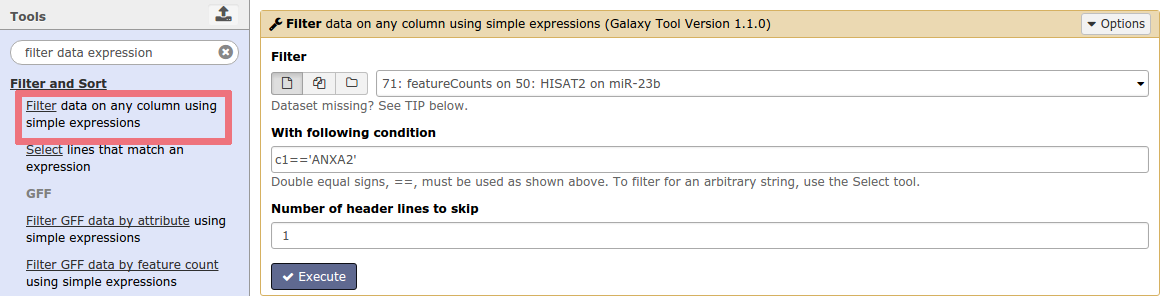
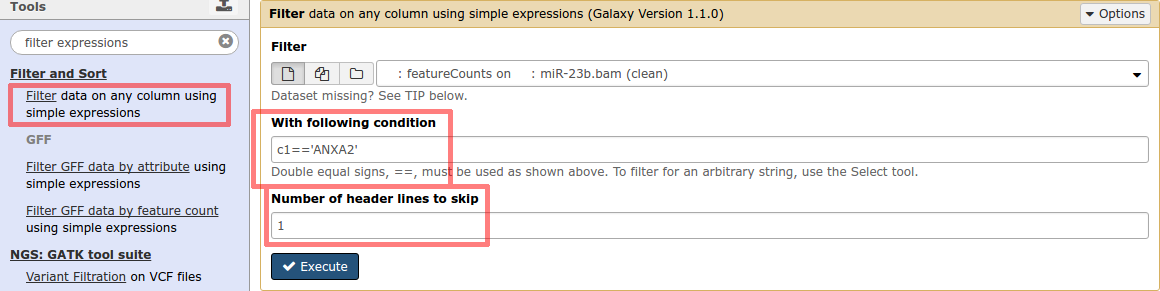
More fixes and changes

Changed region(s): [[0.0, 0.0, 1.0, 0.9897]]

diff --git a/Galaxy_RNA-Seq_DGE/Galaxy_RNA-Seq_DGE_manual_Module_advanced.tex b/Galaxy_RNA-Seq_DGE/Galaxy_RNA-Seq_DGE_manual_Module_advanced.tex
@@ -1,18 +1,24 @@
 \section{Expression analysis advanced}
 \subsection{Estimating gene expression}
-For this practical we need a RNA-seq alignments we previously made in the basic expression analysis: ``\textit{HISAT2 on miR-23b.bam}''. If you did not do that practical, you can find it in the supplementary material: \\
-\datalibrarydirrnaseqadvanced $\rightarrow$ HISAT2\\
-Ensure that the file is annotated at reference genome hg19. To estimate expression in RNA-Seq, we can simply count the number of reads that are aligned to each gene from the list of candidate genes. Therefore you also need to import:
-\datalibrarydirrnaseqtuxedo $\rightarrow$ ucsc\_refseq.gtf\\
-This list is provided as a GTF/GFF file. There are a variety of tools available for counting reads. FeatureCounts is one of the fastest and it works directly using BAM files. If you search for
-``\textit{\underline{featureCounts} Measure gene expression in RNA-Seq experiments from SAM or BAM files.}'' in the Tools menu, you can find the wrapper by the name:\\
+For this practical we need a RNA-seq alignments we previously made in the basic expression analysis: ``\textit{... miR-23b.bam}''. If you did not do that practical, you can find it in the supplementary material: \\
+\datalibrarydirrnaseqadvanced $\rightarrow$ \textit{miR-23b.bam (clean)}\\
+Ensure that the file is annotated at reference genome hg19. To estimate expression in RNA-Seq, we can count the number of reads that are aligned to each gene from the list of candidate genes. Therefore you also need to import:\\
+\datalibrarydirrnaseqadvanced $\rightarrow$ ucsc\_refseq.gtf\\
+This list is provided as a GTF/GFF file.
+There are a variety of tools available for counting reads.
+FeatureCounts is one of the faster tools and it works directly using BAM files. If you search for:\\
+``\textit{\underline{featureCounts} Measure gene expression in RNA-Seq experiments from SAM or BAM files.}''\\
+in the Tools menu, you can find the wrapper by the name:\\
 \includegraphics[width=\textwidth]{figures/expression_01.png}\\
 Before we proceed, we would like to know whether the analysis has been performed correctly. Therefore we take a look at featureCounts’ output-summary file ``\textit{featureCounts on \ldots}'':
 \begin{itemize}
 	\item How many reads are \textit{Assigned}?
 	\item How many reads are \textit{UnAssigned (sum of all)}?
 \end{itemize}
-The flagstat exercise told us we had 18258 reads in total. This should match with the total number of reads in the summary file as well. If we want to look at a particular gene, we truncate the large table and only show the row with the gene of interest. To filter a tabular file we proceed with the following Galaxy tool: 
+Flagstat told us the alignment has 18258 or 19493 reads in total (different versions).
+Please confirm whether this matches with the total number of reads in the featureCounts summary file.
+If we want to look at a particular gene, we may truncate the large table and only show the row with the gene of interest.
+To filter a tabular file we proceed with the following Galaxy tool: 
 \textit{\underline{Filter} data on any column using simple expressions}:\\
 \includegraphics[width=\textwidth]{figures/expression_02.png}\\
 \begin{itemize}
@@ -21,14 +27,16 @@ The flagstat exercise told us we had 18258 reads in total. This should match wit
 \end{itemize}
 
 \subsection{Expression analysis: Low sequencing depth}
-In the previous exercise we found which gene had the highest readcount, but what does it mean if this gene has a high read count in every sample? To say something about expression levels, we should say it in a context relative to other expression levels. Therefore, we need normalization and apply statistical testing. A popular package that allows to do this is EdgeR.
+In the previous exercise we found which gene had the highest readcount, but what does it mean if this gene has a high read count in every sample? To say something about expression levels, we should say it in a context relative to other expression levels. Therefore, we need normalization and apply statistical testing. A popular package that allows to do this is EdgeR which in galaxy fits perfectly with featureCounts.
 
-In the following analyses you will determine the differentially expressed genes in the MCF7-cell line between samples that have been treated with the hormone $\beta$-estradiol (E2) and those that were left as control. For this analysis we will make use of samples all taken from this cell line. In the corresponding article, the statistical power has been estimated at different sequencing depths (subsampling) and with a different number of replicates. Before we proceed, please read the abstract of the following article:
+In the following analyses you will determine the differentially expressed genes in the MCF7-cell line between samples that have been treated with the hormone $\beta$-estradiol (E2) and those that were left as control. The data was originally used to benchmark the statistical power of replicates and does not reflect a certain disease state. However, it is a classical 2-class approach and a similar setup can be useful for cancer analysis. Before we proceed, please read the abstract of the following article:
 \url{http://dx.doi.org/10.1093/bioinformatics/btt688}\\
 Tip: Look up where MCF7 cell lines originate from if you don't know this.\\
 \\
-In the article it is stated that for differential gene expression analysis it is very important to have a high number of replicates per condition. We will repeat a part of their experiment, to illustrate their findings. For this practical we have the readcounts for a sequencing depth of $\sim$30M (full), 10M and 5M, for each replicate, already made available. Each analysis in this assignment
-will be to determine the number of differentially expressed (DE) genes and add this number to Table \ref{tab:dge_ad_01}:
+For this analysis we will make use of samples all taken from this cell line.
+In the article it is stated that for differential gene expression analysis it is very important to have a high number of replicates per condition.
+We will repeat a part of their experiment, to illustrate their findings. For this practical we have the readcounts for a sequencing depth of $\sim$30M (full), 10M and 5M, for each replicate, already made available.
+Each analysis in this assignment will be to determine the number of differentially expressed (DE) genes and add this number to Table \ref{tab:dge_ad_01}:
 \begin{table}[]
 \centering
 \caption{results of DGE analysis}
@@ -58,10 +66,9 @@ Please take a look at the file GSE51403\_design\_matrix\_subsampled.txt.
 	\item Given that the first column lists the names of the samples and the second column the samples' corresponding condition, how many conditions does the experiment have?
 \end{itemize}
 \subsubsection{Subsampled datasets: 5M, 7+7}
-We have a two classes problem: the class itreated with estradiol is called “ E2”, and the
-other called “Control”. The design matrix provides the mapping from the RNAseq
-counts per sample to the phenotype class each is associated with. Take a look at the
-design matrix and see if you can find samples that belong to those classes.
+We have a two classes problem: the class itreated with estradiol is called ``E2'', and the other called ``Control''.
+The design matrix provides the mapping from the RNAseq counts per sample to the phenotype class each is associated with.
+Take a look at the design matrix and see if you can find samples that belong to two mentioned classes.
 \begin{itemize}
 	\item [$\square$] Load ``\textit{\underline{edgeR: Differential Gene(Expression) Analysis} RNA-Seq gene expression analysis using edgeR (R package)}
 	\item [$\square$] Choose \textbf{Analysis type}: \textit{Multigroup test and/or complex designs with e.g. blocking}

diff --git a/Galaxy_RNA-Seq_DGE/Galaxy_RNA-Seq_DGE_manual_Module_alignment.tex b/Galaxy_RNA-Seq_DGE/Galaxy_RNA-Seq_DGE_manual_Module_alignment.tex
@@ -1,13 +1,13 @@
 \section{RNA-Seq: alignment}
 To make more sense of the RNA-Seq data, we try to locate the detected sequences back in a reference genome (this is often called mapping and aligning).
 The reference genome should represent the most common sequence of the chromosomes of the human population.
-Please read the first paragraph (3 scentences) of the following url: \url{http://en.wikipedia.org/wiki/Reference_genome}
+Please read the first paragraph (3 sentences) of the following url: \url{http://en.wikipedia.org/wiki/Reference_genome}
 \begin{itemize}
 	\item On how many individuals is hg19 based?
 \end{itemize}
 For RNA-Seq we need specialized RNA aligners, able to cope with gaps that originate from splicing.
 There are quite some of these aligners around. We will make use the tool ``\textit{\underline{RNA STAR} Gapped-read mapper for RNA-seq data}''.
-Load the aligner, select the following settings and leave the rest on default, and run an alignment for \textit{miR-23b (clean)} and \textit{control sample (clean)}. \textbf{Alignment is a computational very very heavy task so do NOT re-run it if you don't have a good reason, or you will have to give a treat:}\\
+Load the aligner, select the following settings and leave the rest on default, and run an alignment for \textit{miR-23b (clean)} and \textit{control sample (clean)}. \textbf{Alignment is a computational very very heavy task so do NOT re-run it if you don't have a good reason, or you will have to give a treat.}\\
 \includegraphics[width=\textwidth]{figures/alignment_01.png}\\
 Please rename the \textit{RNA STAR on ...: starmapped.bam} to ``\textit{RNA STAR on miR-23b: starmapped.bam}'' and ``\textit{RNA STAR on control sample: starmapped.bam}'' or something else that makes it easy to recognize.
 If the alignments do not have their \textbf{database} (also referred to as \textbf{dbkey}) set, change it to hg19 as follows:\\
@@ -35,7 +35,9 @@ To help you answer this question, you can add ``\textit{ucsc\_refseq.gtf}'' that
 \begin{itemize}
 	\item Can you go to \verb|chr15:60688011-60688099|, and explain what is going on there?
 \end{itemize}
-In the last question you can clearly see that you can observe biological facts from alignments where you couldn't extract this from the plain fastq files. Because looking through these alignments is way to much work and prone to errors, we use these bam files for a variety of computer programs to estimate metrics. These metrics can be insert size, expression levels, indel ratio's, etc., that may be used to test different hypotheses.
+In the last question you can clearly see that you can observe biological facts from alignments where you couldn't extract this from the plain fastq files.
+Because looking through all alignments 'by hand' is way too much work and prone to errors, we use these bam files for a variety of computer programs to estimate metrics for you instead.
+These metrics can be insert size, expression levels, indel ratio's, etc., that may be used to test different hypotheses.
 
 %The insert size is the size between the mate pairs in the alignment. Since the fragments (original part of RNA) are size selected, this should also be reflect in the alignment. Leave Trackster and run the Picard tool: ``Insertion size metrics for pairedd data''.
 
